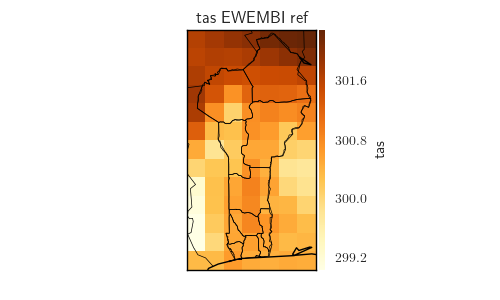
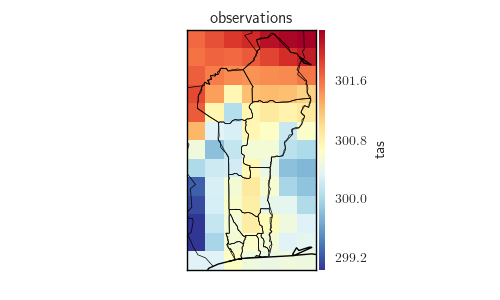
all plots are plots are there in principal.

Changed region(s): [[0.36, 0.03, 0.66, 0.9]]

diff --git a/app/templates/choices.html b/app/templates/choices.html
@@ -5,51 +5,45 @@
 
 <!-- REGIONS -->
 
-<div class="span2.5">
+<div class="span3">
   <form method="POST" action="/country_choice" id="country_id">
   {{ form_country.hidden_tag() }}
   {{ form_country.countrys.label }} {{ form_country.countrys(onchange="change_country();") }}
   </form>
-</div>
 
-<div class="span2.5">
+  <form method="POST" action="/region_choice" id="region_id">
+  {{ form_region.hidden_tag() }}
+  {{ form_region.regions.label }} {{ form_region.regions(onchange="change_region();") }}
+  </form>
+
   <form method="POST" action="/scenario_choice" id="scenario_id">
   {{ form_scenario.hidden_tag() }}
   {{ form_scenario.scenarios.label }} {{ form_scenario.scenarios(onchange="change_scenario();") }}
   </form>
-</div>
 
-<div class="span2.5">
   <form method="POST" action="/indicator_choice" id="indicator_id">
   {{ form_indicator.hidden_tag() }}
   {{ form_indicator.indicators.label }} {{ form_indicator.indicators(onchange="change_indicator();") }}
   </form>
-</div>
 
-<div class="row">
-  <div class="span3">
     <form method="POST" action="/periodchoice">
         {{ form_period.hidden_tag() }}
         {{ form_period.reference_period.label }} {{ form_period.reference_period(size=20) }}
-  </div>
-    <div class="span3">
+
       {{ form_period.projection_period.label }} {{ form_period.projection_period(size=20) }}
       <button type="submit" class="btn">Select periods</button>
     </form>
-  </div>
-</div>
-
-<div class="span2.5">
-  
 </div>
 
 
-<div class="span7">
+
+
+<div class="9">
     <IMG SRC={{ EWEMBI_plot }} ALT=CORDEX_BC_plot WIDTH=400 HEIGHT=300>
     <IMG SRC={{ CORDEX_BC_plot }} ALT=CORDEX_BC_plot WIDTH=400 HEIGHT=300>
+    <IMG SRC={{ transient_plot }} ALT=CORDEX_BC_plot WIDTH=400 HEIGHT=300>
+    <IMG SRC={{ annual_cycle_plot }} ALT=CORDEX_BC_plot WIDTH=400 HEIGHT=300>
 </div>
-     
-
 
 
 

diff --git a/app/templates/layout.html b/app/templates/layout.html
@@ -21,6 +21,10 @@
     document.getElementById("country_id").submit();
    }
 
+  function change_region() {
+    document.getElementById("region_id").submit();
+   }
+
   </script>
 
 

diff --git a/app/views.py b/app/views.py
@@ -57,7 +57,8 @@ def index():
   session["indicator"]   = 'tas'
   session["country_avail"]   = settings.countrys
   session['country']   = settings.countrys[0]
-
+  session["region_avail"]   = settings.regions
+  session['region']   = settings.regions[0]
   # session["period_avail"]   = settings.periods
   # session["period"]   = settings.periods[0]
   print session
@@ -82,44 +83,57 @@ def choices():
   form_country = forms.countryForm(request.form)
   form_country.countrys.choices = zip(session['country_avail'],session['country_avail'])
 
+  form_region = forms.regionForm(request.form)
+  form_region.regions.choices = zip(session['region_avail'],session['region_avail'])
+
   refP = "-".join(str(t) for t in session["reference_period"])
   proP = "-".join(str(t) for t in session["projection_period"])
 
   form_period = forms.PeriodField(request.form, reference_period=refP, projection_period=proP)
+  periods={'ref':session["reference_period"],'projection':session["projection_period"]}
 
-  print str(session["indicator"]),session["scenario"],'CORDEX_BC'
 
-  COU[country].selection([session["indicator"],session["scenario"],'CORDEX_BC','ensemble_mean'])
 
-  COU[country].period_averages(periods={'ref':session["reference_period"],'projection':session["projection_period"]},
-    filters=[session["indicator"],session["scenario"],'CORDEX_BC'])
-  COU[country].period_averages(periods={'ref':session["reference_period"],'projection':session["projection_period"]},
-    filters=[session["indicator"],'EWEMBI'])
 
-  print COU[country].selection([session["indicator"],session["scenario"],'CORDEX_BC','ensemble_mean'])[0].period.keys()
-
+  cordex=COU[country].selection([session["indicator"],session["scenario"],'CORDEX_BC','ensemble_mean'])[0]
   CORDEX_BC_plot='static/images/'+country+'/'+session["indicator"]+'_'+session["scenario"]+'_CORDEX_BC_'+proP+'-'+refP+'.png'
   if os.path.isfile(CORDEX_BC_plot)==False:
-    COU[country].selection([session["indicator"],session["scenario"],'CORDEX_BC','ensemble_mean'])[0].display_map(
-    period='projection-ref',
-    out_file=CORDEX_BC_plot,
-    polygons=COU[country]._adm_polygons)
+    COU[country].period_averages(periods=periods,filters=[session["indicator"],session["scenario"],'CORDEX_BC'])
+    COU[country].model_agreement()
+    cordex.display_map(period='projection-ref',out_file=CORDEX_BC_plot,polygons=COU[country]._adm_polygons,title='projections')
 
+  ewembi=COU[country].selection([session["indicator"],'EWEMBI'])[0]
   EWEMBI_plot='static/images/'+country+'/'+session["indicator"]+'_EWEMBI_'+refP+'.png'
   if os.path.isfile(EWEMBI_plot)==False:
-    COU[country].selection([session["indicator"],'EWEMBI'])[0].display_map(
-    period='ref',
-    out_file=EWEMBI_plot,
-    polygons=COU[country]._adm_polygons)
+    COU[country].period_averages(periods=periods,filters=[session["indicator"],'EWEMBI'])
+    ewembi.display_map(period='ref',out_file=EWEMBI_plot,polygons=COU[country]._adm_polygons,title='observations')
 
+  transient_plot='static/images/'+country+'/'+session["indicator"]+'_'+session['region']+'_transient.png'
+  if os.path.isfile(transient_plot)==False:
+    fig,ax=plt.subplots(nrows=1,ncols=1,figsize=(5,4))
+    ewembi.plot_transient(mask_style='lat_weighted',region=session['region'],running_mean=60,ax=ax,title='',ylabel=None,label='observation')
+    cordex.plot_transient(mask_style='lat_weighted',region=session['region'],running_mean=60,ax=ax,title='',ylabel=None,label='projection')
+    ax.set_title('transient plot')
+    plt.savefig(transient_plot)
+
+  annual_cycle_plot='static/images/'+country+'/'+session["indicator"]+'_'+session['region']+'_annual_cycle_'+proP+'-'+refP+'.png'
+  if os.path.isfile(annual_cycle_plot)==False:
+    fig,ax=plt.subplots(nrows=1,ncols=1,figsize=(5,4))
+    ewembi.plot_annual_cycle(period=session["reference_period"],mask_style='lat_weighted',region=session['region'],ax=ax,title='',ylabel=None,label='observation')
+    cordex.plot_annual_cycle(period=session["projection_period"],mask_style='lat_weighted',region=session['region'],ax=ax,title='',ylabel=None,label='projection')
+    ax.set_title('annual cycle plot')
+    plt.savefig(annual_cycle_plot)
 
   context = { 
     'form_country':form_country,
+    'form_region':form_region,
     'form_period':form_period,
     'form_scenario':form_scenario,
     'form_indicator':form_indicator,
     'EWEMBI_plot':EWEMBI_plot,
-    'CORDEX_BC_plot':CORDEX_BC_plot
+    'CORDEX_BC_plot':CORDEX_BC_plot,
+    'annual_cycle_plot':annual_cycle_plot,
+    'transient_plot':transient_plot
   }
   print EWEMBI_plot
 
@@ -166,6 +180,15 @@ def period_choice():
   # put chosen at beginning of list
   index=session['period_avail'].index(session['period'])
   session['period_avail'][index],session['period_avail'][0]=session['period_avail'][0],session['period_avail'][index]
+  return redirect(url_for('choices'))
+
+@app.route('/region_choice',  methods=('POST', ))
+def region_choice():
+  form_region = forms.regionForm(request.form)
+  session['region']=form_region.regions.data
+  # put chosen at beginning of list
+  index=session['region_avail'].index(session['region'])
+  session['region_avail'][index],session['region_avail'][0]=session['region_avail'][0],session['region_avail'][index]
   return redirect(url_for('choices'))
 
 @app.route('/country_choice',  methods=('POST', ))

diff --git a/app/settings.py b/app/settings.py
@@ -44,10 +44,11 @@ os.chdir('/Users/peterpfleiderer/Documents/Projects')
 COU={}
 
 COU['BEN']=country_analysis('BEN','/Users/peterpfleiderer/Documents/Projects/country_analysis/')
-COU['BEN'].load_from_tar('/Users/peterpfleiderer/Documents/Projects/country_analysis/BEN.tar.gz')
+COU['BEN'].load_data()
 
 indicators  = list(set([data.var_name for data in COU['BEN']._DATA]))
-
+print COU['BEN']._masks.keys()
+regions		= COU['BEN']._masks['360x720_lat_89.75_-89.75_lon_-179.75_179.75']['lat_weighted'].keys()
 
 os.chdir('/Users/peterpfleiderer/Documents/Projects/projection_sharing/app/')
 

diff --git a/app/forms.py b/app/forms.py
@@ -35,6 +35,10 @@ class countryForm(Form):
   countrys = SelectField(u'Available countrys', choices=[],
             validators=[Required("Please select at least one region.")])
 
+class regionForm(Form):
+  regions = SelectField(u'Available regions', choices=[],
+            validators=[Required("Please select at least one region.")])
+
 class PeriodField(Form):
   regex = "[1-2][0-9]{3}-[1-2][0-9]{3}"
 
